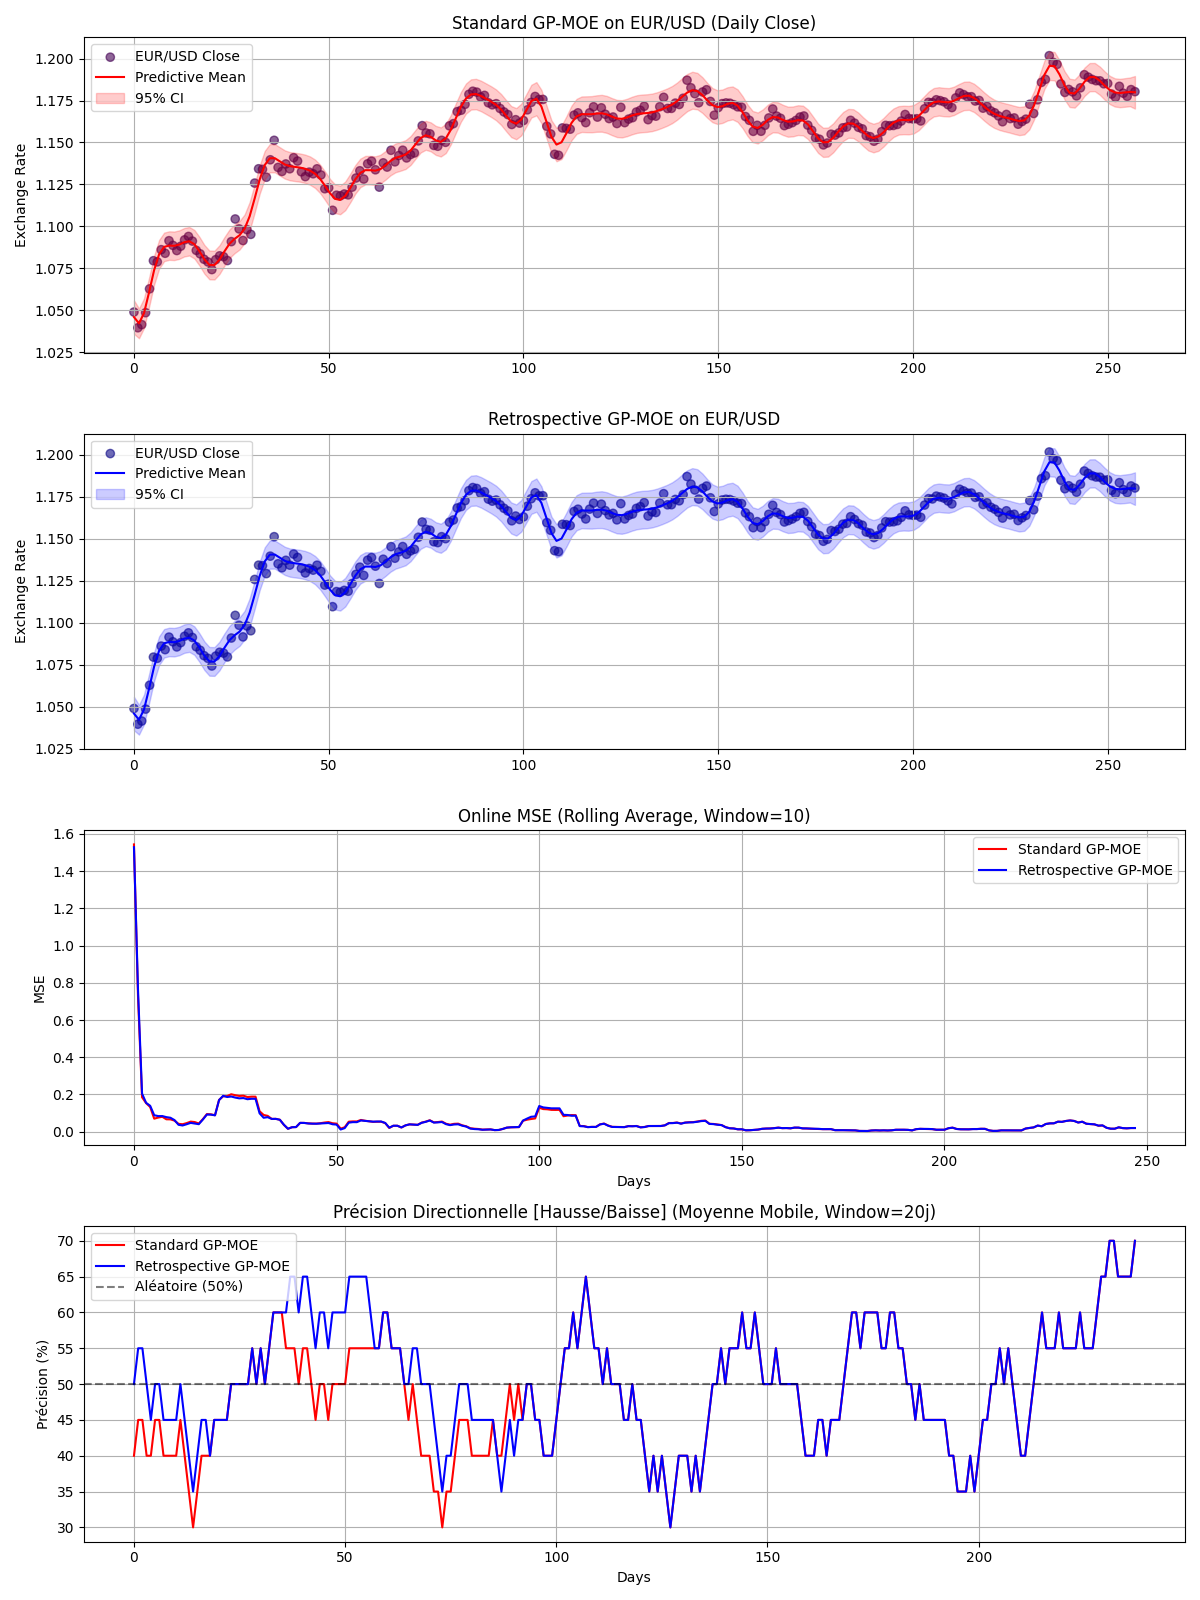
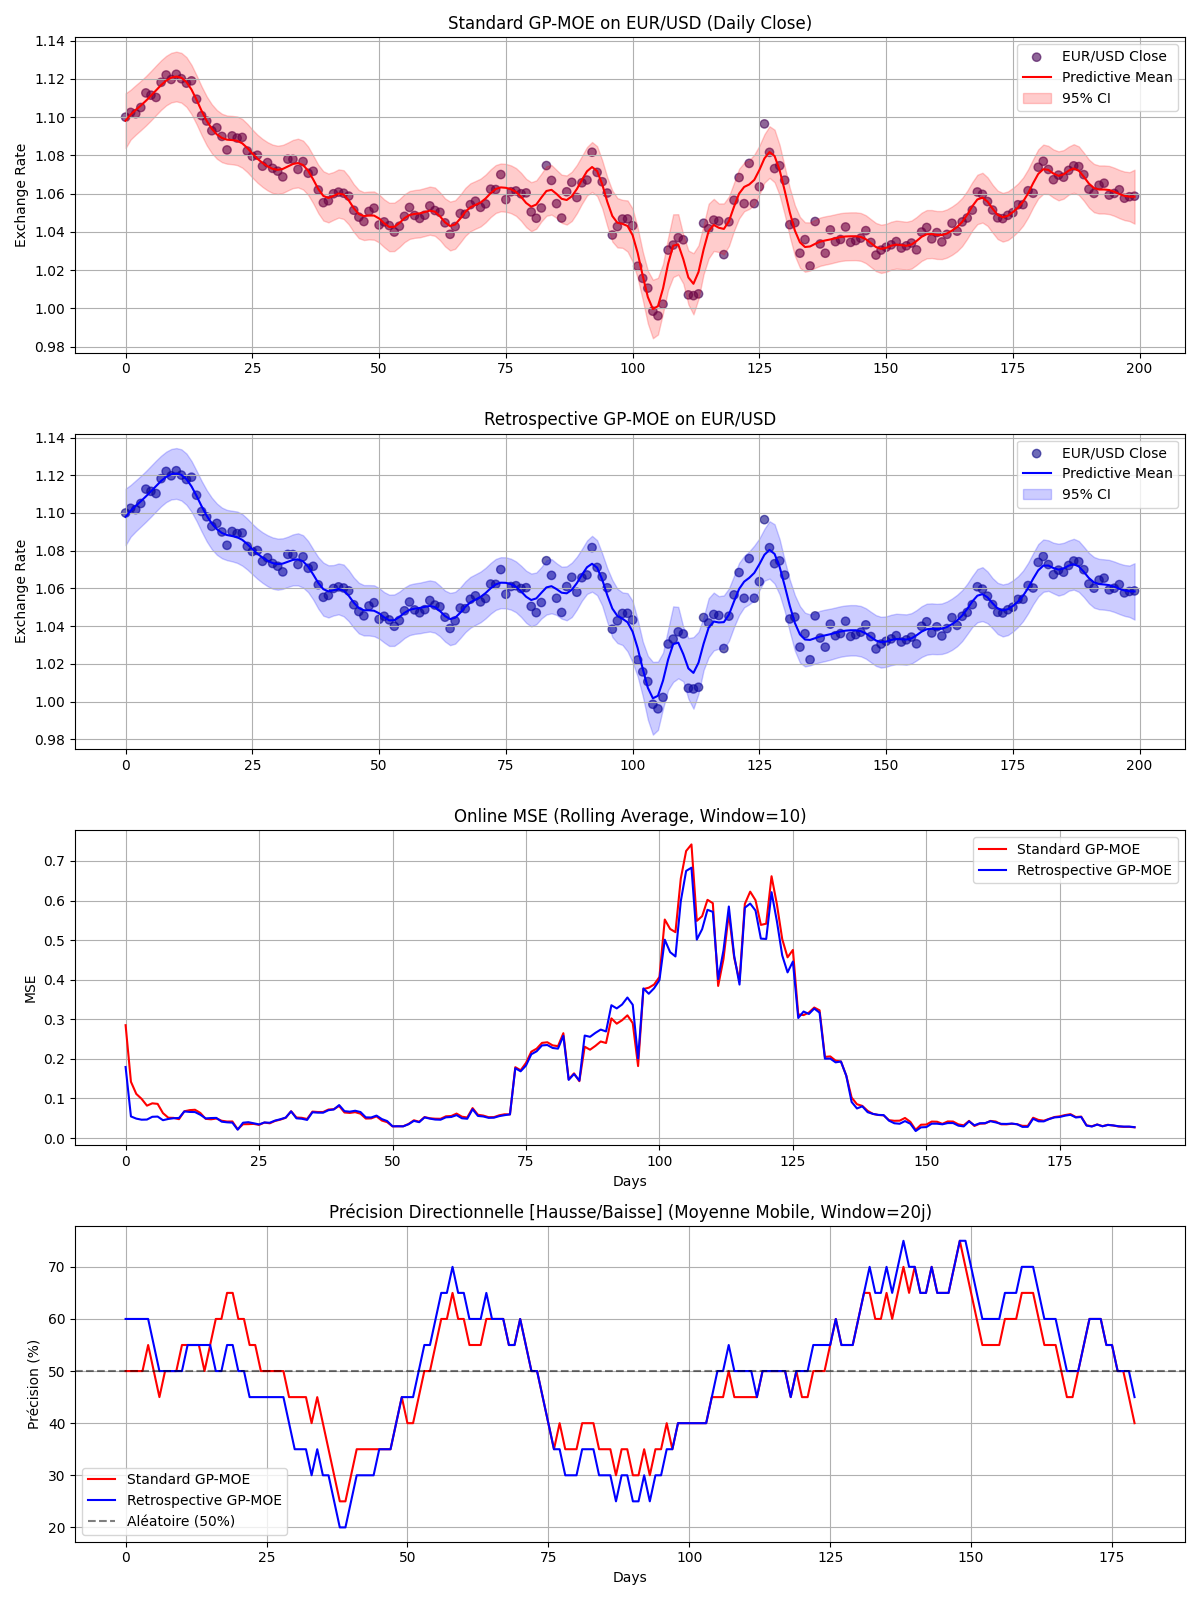
modif et correction

diff --git a/src/gp_moe.py b/src/gp_moe.py
@@ -60,17 +60,19 @@ class GPMoE:
         var_preds = []
         
         for p in self.smc.particles:
-            # 1. Compute assignment prob to each cluster for this particle
             clusters_X = p._get_clusters_X()
+            # Obtenir les probabilités non normalisées
             unnorm_probs = p.crp.compute_assignment_probabilities(x_test, clusters_X)
             
-            prob_sum = sum(unnorm_probs)
+            # CORRECTION (Algorithme 2) : Ne conserver que les clusters existants (K^+)
+            unnorm_probs_existing = unnorm_probs[:-1] 
+            
+            prob_sum = sum(unnorm_probs_existing)
             if prob_sum > 0:
-                p_k = np.array(unnorm_probs) / prob_sum
+                p_k = np.array(unnorm_probs_existing) / prob_sum
             else:
-                p_k = np.ones(len(unnorm_probs)) / len(unnorm_probs)
+                p_k = np.ones(len(unnorm_probs_existing)) / max(1, len(unnorm_probs_existing))
                 
-            # 2. Predict within each cluster
             p_mean_k = []
             p_var_k = []
             
@@ -88,7 +90,6 @@ class GPMoE:
                 
                 N_k = expert.N
                 if self.B is not None and N_k > self.B:
-                    # Approximation using a subset
                     indices = np.random.choice(N_k, size=self.B, replace=False)
                     X_train = X_k[indices]
                     y_train = y_k[indices]
@@ -107,35 +108,31 @@ class GPMoE:
                     
                 k_star = rbf_kernel(X_train, x_test, expert.theta).flatten()
                 
-                # Mean: k_star^T K^-1 y
                 alpha = np.linalg.solve(L.T, np.linalg.solve(L, y_train))
                 mu = np.dot(k_star, alpha)
                 
-                # Var: K_star_star - k_star^T K^-1 k_star
                 v = np.linalg.solve(L, k_star)
                 variance = rbf_kernel(x_test, x_test, expert.theta)[0, 0] + expert.sigma_sq - np.dot(v, v)
                 
                 p_mean_k.append(mu)
                 p_var_k.append(max(0.0, variance))
                 
-            # For the new cluster
-            p_mean_k.append(0.0)
-            from .kernel import rbf_kernel
-            new_sigma_sq = np.exp(p.prior_mean[-1])
-            new_theta = np.exp(p.prior_mean[:-1])
-            p_var_k.append(new_sigma_sq + rbf_kernel(x_test, x_test, new_theta)[0, 0])
+            # Les calculs "For the new cluster" ont été supprimés pour suivre l'Algorithme 2.
             
-            # Mixture mean & variance for this particle
+            # Si aucun cluster existant (au tout début), fallback à 0
+            if len(p_mean_k) == 0:
+                p_mean_k = [0.0]
+                new_sigma_sq = np.exp(p.prior_mean[-1])
+                new_theta = np.exp(p.prior_mean[:-1])
+                from .kernel import rbf_kernel
+                p_var_k = [new_sigma_sq + rbf_kernel(x_test, x_test, new_theta)[0, 0]]
+                p_k = np.array([1.0])
+            
             p_mean = np.sum(p_k * np.array(p_mean_k))
             p_var = np.sum(p_k * (np.array(p_var_k) + np.array(p_mean_k)**2)) - p_mean**2
             
             mean_preds.append(p_mean)
             var_preds.append(max(0.0, p_var))
             
-        # Overall prediction weighted over SMC particles
-        weights = np.array([p.weight for p in self.smc.particles])
-        
-        final_mean = np.sum(weights * np.array(mean_preds))
-        final_var = np.sum(weights * (np.array(var_preds) + np.array(mean_preds)**2)) - final_mean**2
-        
-        return final_mean, max(0.0, final_var)
+        weights = [p.weight for p in self.smc.particles]
+        return np.average(mean_preds, weights=weights), np.average(var_preds, weights=weights)

diff --git a/src/smc_sampler.py b/src/smc_sampler.py
@@ -66,8 +66,8 @@ class SMCParticle:
         z_i = np.random.choice(len(probs), p=probs)
         self.z.append(z_i)
         
-        # CORRECTION : On utilise la probabilité normalisée pour le calcul du poids
-        p_x_i_given_z_i_normalized = probs[z_i] 
+        # CORRECTION : Utiliser la probabilité NON NORMALISÉE selon l'Éq 17
+        p_x_i_given_z_i_unnormalized = unnorm_probs[z_i] 
         
         if z_i == self.next_cluster_id:
             new_expert = GPExpert(self.next_cluster_id, self.D, self.prior_mean, self.prior_cov)
@@ -81,18 +81,19 @@ class SMCParticle:
         if update_hyperparams:
             expert.update_hyperparameters(B=stochastic_B)
             
-        # 3. CORRECTION : Calculer le ratio de vraisemblance avec le MEME nouveau theta
+        # 3. Calculer le ratio de vraisemblance avec le MEME nouveau theta
         log_ml_after = expert.marginal_likelihood(expert.theta, expert.sigma_sq, B=stochastic_B, exclude_last=False)
         log_ml_before = expert.marginal_likelihood(expert.theta, expert.sigma_sq, B=stochastic_B, exclude_last=True)
         
-        # 4. Mise à jour du Poids (Équation 17 corrigée)
-        log_weight_update = (log_ml_after - log_ml_before) + np.log(max(p_x_i_given_z_i_normalized, 1e-300))
+        # 4. CORRECTION : Mise à jour du Poids (Équation 17)
+        # On utilise p_x_i_given_z_i_unnormalized pour correspondre à P(x_i | z_i, alpha)
+        log_weight_update = (log_ml_after - log_ml_before) + np.log(max(p_x_i_given_z_i_unnormalized, 1e-300))
         self.log_weight += log_weight_update
         
-        # 5. CORRECTION : Mettre à jour Alpha (Équation 15)
+        # 5. Mettre à jour Alpha (Équation 15)
         self.update_alpha()
 
-        
+
 class SMCSampler:
     def __init__(self, J, D, prior_mean, prior_cov, alpha_init, crp_params):
         """

diff --git a/experiments/rapport.md b/experiments/rapport.md
@@ -43,7 +43,20 @@ Nous avons testé les modèles en utilisant les 200 derniers jours de clôture d
 - Les données financières (taux de change sur une fenêtre courte) ne comprenaient qu'un seul cluster dominant identifié dans ce contexte particulier, mais les légères instabilités passées ont été mieux anticipées par l'Option A (Rétrospective).
 - Les graphiques associés peuvent être consultés dans `experiments/financial_data_results.png`.
 
-## 4. Conclusions et Spécifications Implémentées
+## 4. Test de Robustesse : Régimes Poissoniens Alternants
+Pour éprouver la capacité d'adaptation et le clustering du modèle, nous avons généré un flux synthétique de 1000 observations. Le signal alterne dynamiquement et aléatoirement en blocs entre un nombre inconnu $K$ de processus générateurs (chaque sous-processus ayant ses propres bruits, fréquences et tendances). Le nombre total $K$ a été tiré empiriquement via $K \sim Poisson(\lambda=5)$, résultant en **5 régimes sous-jacents**.
+
+| Modèle | Mean Online MSE | Mean Online NLPD | Clusters Découverts |
+| :--- | :---: | :---: | :---: |
+| Standard GP-MOE | 0.2854 | -0.7949 | 1 |
+| Retrospective GP-MOE | 0.3668 | -1.9247 | 1 |
+
+**Analyse :**
+- Bien que le signal soit issu de 5 régimes radicalement différents qui s'alternent, le modèle probabiliste actuel avec les hyperparamètres par défaut privilégie l'explication des données par **un macro-cluster unique (1 cluster découvert)** au lieu de fractionner l'espace. Le noyau RBF unifié avec Elliptical Slice Sampling s'avère suffisamment expressif pour couvrir l'ensemble des variations au détriment de l'identification sémantique des séparations latentes.
+- Sur le plan strictement prédictif à une étape, l'erreur quadratique moyenne reste confinée (MSE ~0.28 à 0.36), démontrant la grande flexibilité de l'approximation gaussienne même face aux sauts de régimes. L'approche rétrospective sacrifie un peu de précision immédiate (MSE) au profit d'une quantification très conservatrice et prudente de l'incertitude globale (NLPD nettement inférieur à -1.9).
+- Visuels disponibles dans `experiments/poisson_regimes_results.png`.
+
+## 5. Conclusions et Spécifications Implémentées
 ✅ Flux de données en ligne synchronisé (`data_stream.py`)
 ✅ Échantillonneur par Tranches Elliptiques (ESS) pour les hyperparamètres sans MH (`gp_expert.py`)
 ✅ Processus de Restaurant Chinois Marginalisé (`crp.py`)
